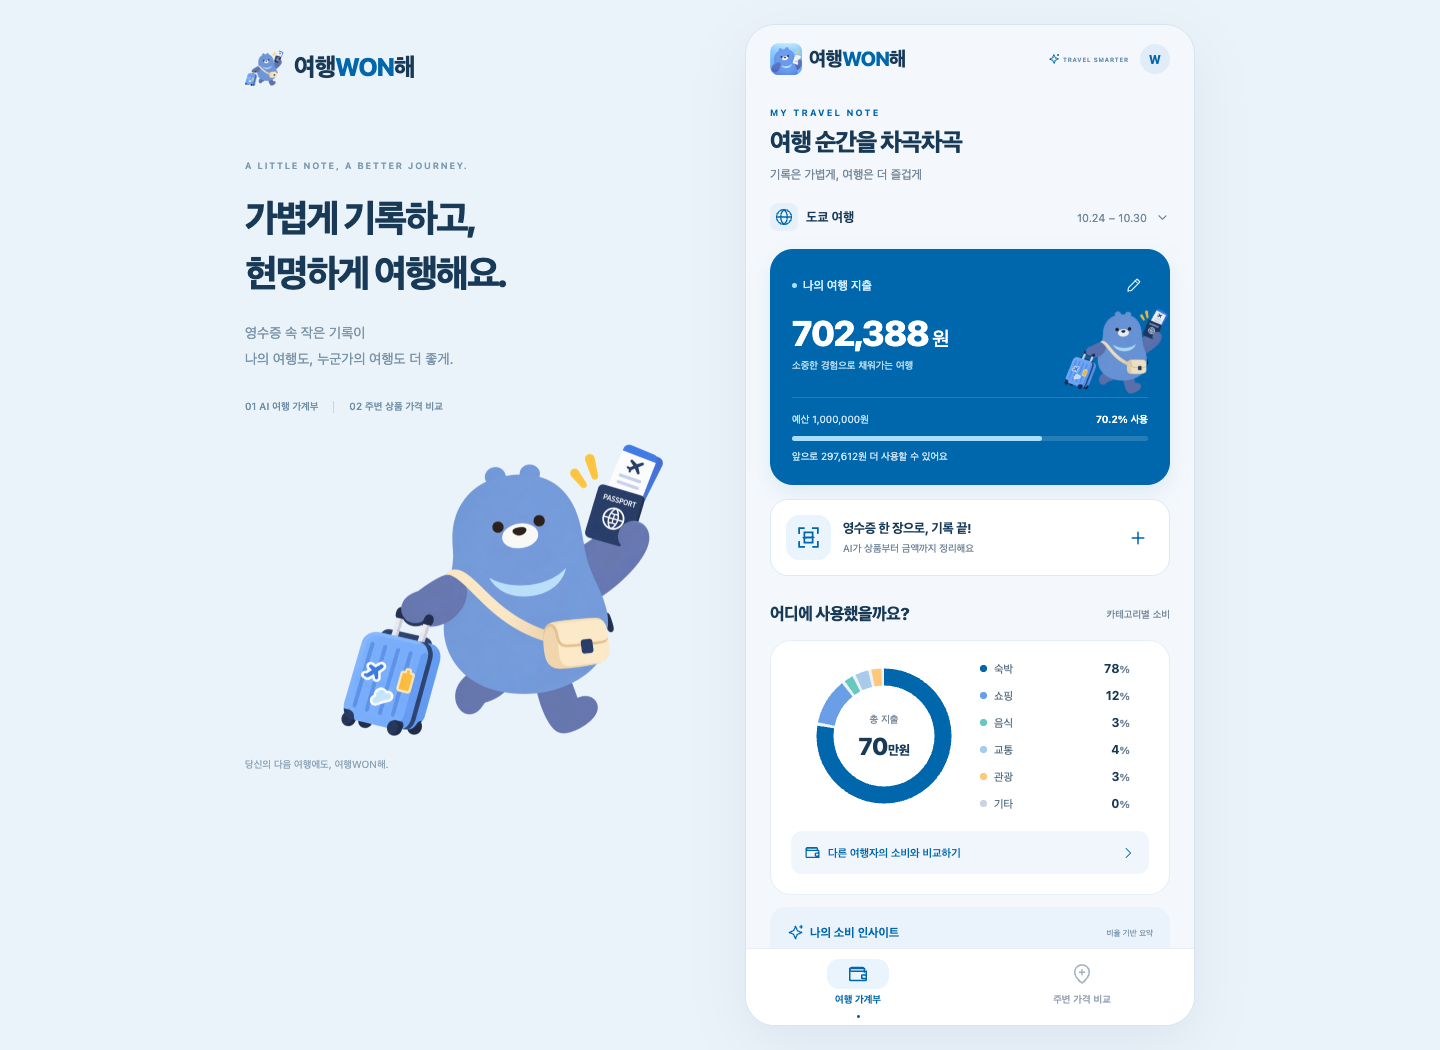
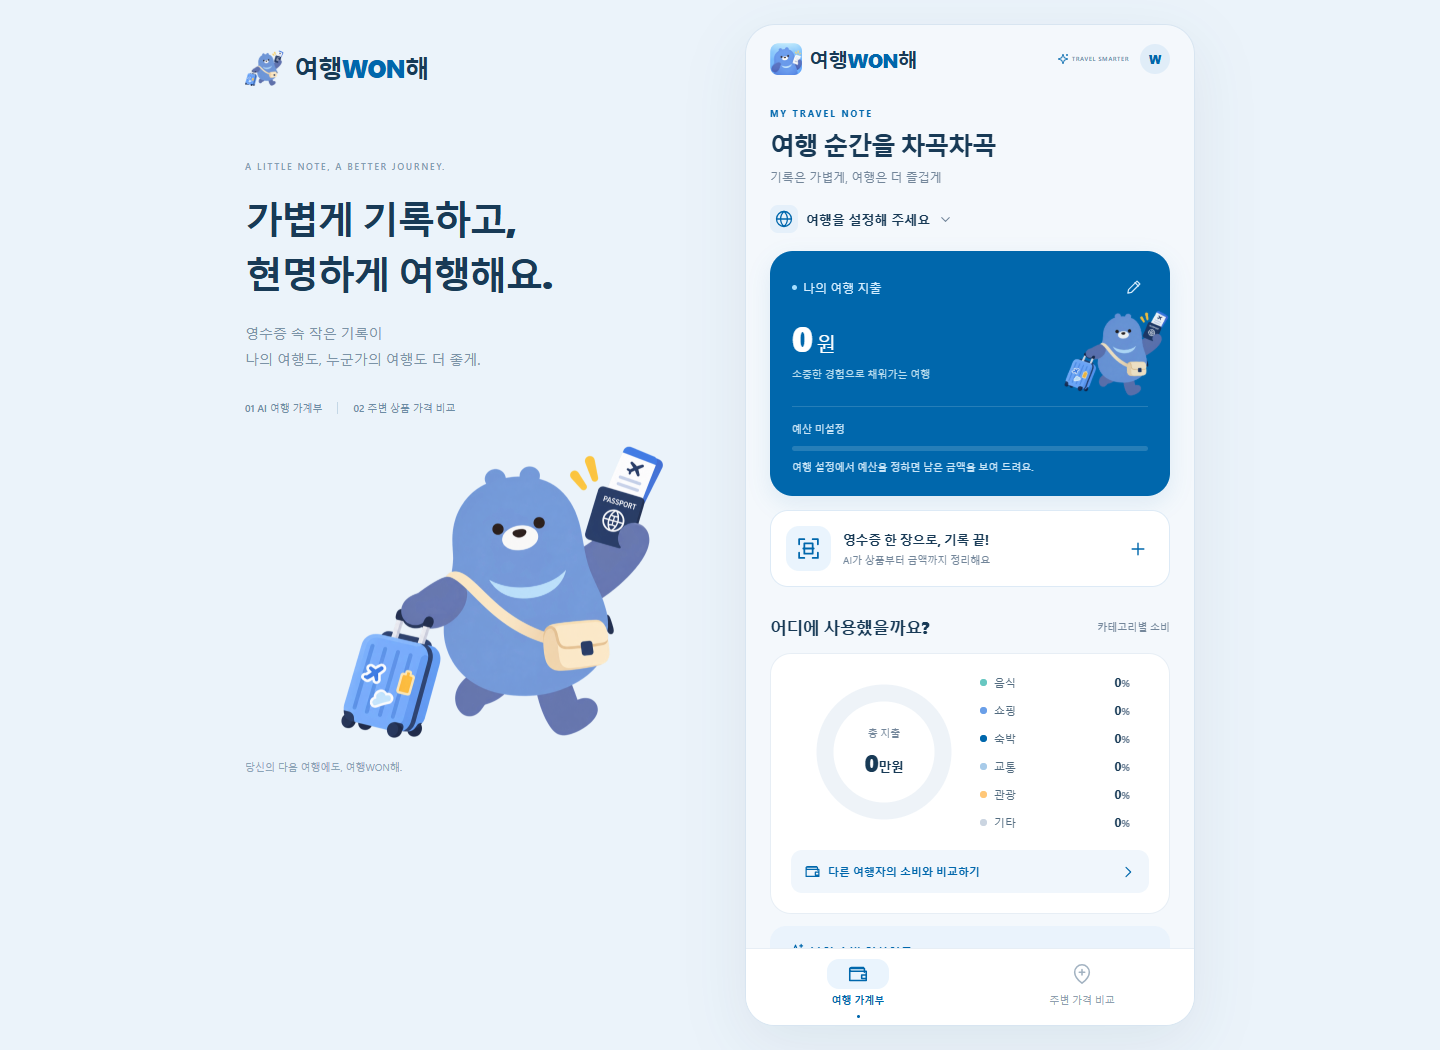
feat: 가계부를 기본 여행·영수증 없이 빈 상태로 시작
- 처음 실행하면 여행과 영수증이 모두 비어 있고, 여행 설정에서 정함
- 예전 기본값(파리·도쿄 기본 여행, 기본 시연 영수증 6건)은 불러올 때 지움
- 여행 설정에 국가 입력 추가, 도시·국가·기간을 정하기 전에는 기기에만 저장
- 브라우저 검증: 빈 시작 상태 반영, 환율 대체 응답 추가, 첫 OCR 대기 시간 늘림

diff --git a/src/screens/Ledger.tsx b/src/screens/Ledger.tsx
@@ -16,6 +16,7 @@ import {
   money,
   toWon,
   storeLabel,
+  tripReady,
 } from "../domain.mjs";
 import { colors, Icon, Chip, Empty } from "../components/ui";
 import type { Receipt, TravelState } from "../types";
@@ -61,11 +62,17 @@ export function Ledger({
         <View style={s.tripIcon}>
           <Icon name="globe" size={18} color={colors.primary} />
         </View>
-        <Text style={s.tripCity}>{state.trip.city} 여행</Text>
-        <Text style={s.tripDate}>
-          {state.trip.start.slice(5).replace("-", ".")} –{" "}
-          {state.trip.end.slice(5).replace("-", ".")}
+        <Text style={s.tripCity}>
+          {tripReady(state.trip)
+            ? `${state.trip.city} 여행`
+            : "여행을 설정해 주세요"}
         </Text>
+        {tripReady(state.trip) && (
+          <Text style={s.tripDate}>
+            {state.trip.start.slice(5).replace("-", ".")} –{" "}
+            {state.trip.end.slice(5).replace("-", ".")}
+          </Text>
+        )}
         <Icon name="down" size={15} color={colors.muted} />
       </Pressable>
       <View style={s.hero}>
@@ -95,9 +102,13 @@ export function Ledger({
         />
         <View style={s.budget}>
           <View style={s.budgetLabels}>
-            <Text style={s.budgetText}>예산 {won(state.trip.budget)}</Text>
+            <Text style={s.budgetText}>
+              {state.trip.budget
+                ? `예산 ${won(state.trip.budget)}`
+                : "예산 미설정"}
+            </Text>
             <Text style={s.budgetPercent}>
-              {summary.percent.toFixed(1)}% 사용
+              {state.trip.budget ? `${summary.percent.toFixed(1)}% 사용` : ""}
             </Text>
           </View>
           <View style={s.progressTrack}>
@@ -107,15 +118,19 @@ export function Ledger({
                 {
                   width: `${Math.min(100, summary.percent)}%`,
                   backgroundColor:
-                    summary.remaining < 0 ? "#FFBF99" : "#A8DEFF",
+                    state.trip.budget && summary.remaining < 0
+                      ? "#FFBF99"
+                      : "#A8DEFF",
                 },
               ]}
             />
           </View>
           <Text style={s.remaining}>
-            {summary.remaining < 0
-              ? `예산을 ${won(-summary.remaining)} 초과했어요`
-              : `앞으로 ${won(summary.remaining)} 더 사용할 수 있어요`}
+            {!state.trip.budget
+              ? "여행 설정에서 예산을 정하면 남은 금액을 보여 드려요."
+              : summary.remaining < 0
+                ? `예산을 ${won(-summary.remaining)} 초과했어요`
+                : `앞으로 ${won(summary.remaining)} 더 사용할 수 있어요`}
           </Text>
         </View>
       </View>
@@ -324,7 +339,8 @@ export function Ledger({
       <View style={s.footer}>
         <Icon name="info" size={12} color={colors.muted} />
         <Text style={s.footerText}>
-          시연 기록이 포함돼요. 적용 환율은 직접 수정할 수 있어요.
+          {state.receipts.some((r) => r.demo) ? "시연 기록이 포함돼요. " : ""}
+          적용 환율은 직접 수정할 수 있어요.
         </Text>
       </View>
     </View>

diff --git a/src/components/TripSettings.tsx b/src/components/TripSettings.tsx
@@ -16,12 +16,13 @@ export function TripSettings({
   onClear: () => void;
 }) {
   const [draft, setDraft] = useState(trip),
-    [budget, setBudget] = useState(String(trip.budget)),
+    [budget, setBudget] = useState(trip.budget ? String(trip.budget) : ""),
     [error, setError] = useState(""),
     [confirm, setConfirm] = useState(false);
   function save() {
     try {
       if (!draft.city.trim()) throw new Error("여행 도시를 입력해 주세요.");
+      if (!draft.country.trim()) throw new Error("여행 국가를 입력해 주세요.");
       if (
         !validDate(draft.start) ||
         !validDate(draft.end) ||
@@ -31,6 +32,7 @@ export function TripSettings({
       onSave({
         ...draft,
         city: draft.city.trim(),
+        country: draft.country.trim(),
         budget: parseMoney(budget, "KRW"),
       });
     } catch (e) {
@@ -48,7 +50,15 @@ export function TripSettings({
         label="여행 도시"
         value={draft.city}
         onChangeText={(city) => setDraft({ ...draft, city })}
+        placeholder="예: 도쿄"
         testID="trip-city"
+      />
+      <Field
+        label="여행 국가"
+        value={draft.country}
+        onChangeText={(country) => setDraft({ ...draft, country })}
+        placeholder="예: 일본"
+        testID="trip-country"
       />
       <View style={{ flexDirection: "row", gap: 12 }}>
         <Field
@@ -56,12 +66,14 @@ export function TripSettings({
           value={draft.start}
           onChangeText={(start) => setDraft({ ...draft, start })}
           placeholder="YYYY-MM-DD"
+          testID="trip-start"
         />
         <Field
           label="여행 종료일"
           value={draft.end}
           onChangeText={(end) => setDraft({ ...draft, end })}
           placeholder="YYYY-MM-DD"
+          testID="trip-end"
         />
       </View>
       <Field
@@ -69,11 +81,11 @@ export function TripSettings({
         value={budget}
         onChangeText={setBudget}
         keyboardType="number-pad"
+        placeholder="예: 1000000"
         testID="trip-budget"
       />
       <Text style={s.note}>
-        원화 환산에는 각 영수증에 입력한 환율을 사용해요. 시연 환율 1 EUR =
-        1,600원은 실시간 환율이 아니에요.
+        원화 환산에는 각 영수증에 입력한 적용 환율을 사용해요.
       </Text>
       {error ? (
         <Text accessibilityRole="alert" style={s.error}>

diff --git a/App.tsx b/App.tsx
@@ -24,9 +24,11 @@ import { ReceiptEditor } from "./src/components/ReceiptEditor";
 import { TripSettings } from "./src/components/TripSettings";
 import { colors, Icon } from "./src/components/ui";
 import {
-  createDemo,
+  createInitialState,
   fingerprint,
+  tripReady,
   validateReceipt,
+  withoutDefaults,
 } from "./src/domain.mjs";
 import { loadLedger, syncLedger } from "./src/api";
 import type { Receipt, TravelState } from "./src/types";
@@ -34,7 +36,7 @@ import type { Receipt, TravelState } from "./src/types";
 const STORAGE_KEY = "travel-wonhae-mobile-v1",
   TOKEN_KEY = "travel-wonhae-device-token";
 function TravelApp() {
-  const [state, setState] = useState<TravelState>(() => createDemo()),
+  const [state, setState] = useState<TravelState>(() => createInitialState()),
     [loaded, setLoaded] = useState(false),
     [storageFailed, setStorageFailed] = useState(false);
   const [tab, setTab] = useState("ledger"),
@@ -81,7 +83,8 @@ function TravelApp() {
           )
             throw new Error("저장 형식 오류");
           parsed.receipts.forEach(validateReceipt);
-          if (active) setState(parsed);
+          // 예전 버전이 넣어 둔 기본 시연 영수증과 기본 여행(파리·도쿄)은 불러오지 않습니다.
+          if (active) setState(withoutDefaults(parsed));
         }
       } catch {
         if (active) {
@@ -111,6 +114,11 @@ function TravelApp() {
   }, [state, loaded, storageFailed]);
   async function refresh() {
     if (!token.current || storageFailed) return;
+    // 여행(도시·국가·기간)을 정하기 전에는 서버가 받지 않으므로 기기에만 저장합니다.
+    if (!tripReady(state.trip)) {
+      setSyncMessage("여행을 설정하면 가계부를 서버에도 저장해요.");
+      return;
+    }
     // 가계부 전체를 순서대로 서버 DB에 저장해 삭제·수정과 재시도를 함께 처리합니다.
     // 저장이 끝나면 PAGE 2가 서버에서 다시 조회해 방금 저장한 영수증도 보여 줍니다.
     const current = state;

diff --git a/src/components/ReceiptEditor.tsx b/src/components/ReceiptEditor.tsx
@@ -451,6 +451,7 @@ export function ReceiptEditor({
               setRate(fallbackRate(c));
               void loadRate(c);
             }}
+            testID={`currency-${c}`}
           />
         ))}
       </View>

diff --git a/README.md b/README.md
@@ -20,7 +20,7 @@
 - **소비 시각화**: 카테고리(숙박·쇼핑·음식·교통·관광·기타)별 도넛 차트와 비율
 - **평균 비교**: 카테고리별 나의 비율, 시연 평균 비율, 그 차이(%p)
 - **소비 인사이트**: 가장 많이 쓴 카테고리와 평균과의 차이를 설명하는 비율 기반 요약
-- **여행 예산**: 도시·기간·예산·적용 환율 설정, 예산 사용률·남은 예산·초과 표시
+- **여행 예산**: 도시·국가·기간·예산 설정, 예산 사용률·남은 예산·초과 표시
 - **나의 영수증**: 최근 구매일 순 목록, 카테고리 필터, 원화·외화 금액 표시, 상세 보기·수정·삭제, 같은 영수증 중복 등록 차단
 
 ### 2. 주변 가격 비교
@@ -50,10 +50,10 @@ AI는 영수증 해석만 맡고, 금액 계산과 검증은 프로그램이 수
 
 - 가계부와 여행 설정은 기기의 AsyncStorage에 저장합니다. 웹에서는 해당 주소의 브라우저 localStorage를 씁니다.
 - 서버는 기기·여행·영수증·품목 4개 테이블에 저장합니다([docs/db-design.md](docs/db-design.md)). 기본은 H2 파일 DB(`data/prices.mv.db`)이고, `npm run server:mysql`로 실행하면 MySQL(`travel_won`)을 씁니다. 기기 토큰은 SHA-256 해시로만 보관합니다. PAGE 2에는 공유하고 매장 위치가 있는 영수증만 나옵니다.
-- 앱은 가계부를 기기(AsyncStorage)에 먼저 저장하고, 바뀔 때마다 서버에 통째로 저장합니다(`PUT /ledger`). 시연 영수증은 서버에 저장하지 않습니다. 서버에 연결되지 않으면 기기에만 저장하고 다음 연결 때 반영합니다.
+- 앱은 가계부를 기기(AsyncStorage)에 먼저 저장하고, 바뀔 때마다 서버에 통째로 저장합니다(`PUT /ledger`). 시연 영수증은 서버에 저장하지 않습니다. 여행 도시·국가·기간을 정하기 전에는 서버가 여행을 받지 않으므로 기기에만 저장합니다. 서버에 연결되지 않으면 기기에만 저장하고 다음 연결 때 반영합니다.
 - 금액은 최소 통화 단위 정수로 저장합니다(EUR·USD·THB는 센트, JPY·KRW는 엔·원). 적용 환율은 소수 4자리까지 받고(`travel_won` 설계는 `DECIMAL(12,4)`), 원화 환산은 금액 × 환율을 끝까지 계산한 뒤 원 단위로 반올림합니다(1000엔 × 8.3983 = 8,398원).
 - 불러온 환율은 영업일마다 고시되는 한국수출입은행 매매기준율로, 참고값입니다. 실시간 환율이나 실제 카드 결제 환율과 다를 수 있습니다. 주말·공휴일·고시 전에는 가장 최근 고시일(최대 7일 전) 값을 씁니다.
-- **시연 데이터**: 처음 실행할 때 보이는 도쿄 여행 영수증 6건(JPY)과 평균 소비 비율은 가상입니다. PAGE 2의 신주쿠 주변 매장·가격은 `travel_won`에 넣은 가데이터([sample-data/](sample-data/README.md))입니다. 시연 영수증은 여행 설정에서 지울 수 있습니다.
+- **시연 데이터**: 처음 실행하면 기본 여행과 기본 영수증 없이 빈 가계부로 시작하고, 여행 설정에서 도시·국가·기간·예산을 정합니다(예전 버전이 넣어 둔 파리·도쿄 기본 여행과 기본 시연 영수증도 불러올 때 지웁니다). 평균 소비 비율은 가상입니다. 영수증 화면의 "시연 영수증으로 체험하기"로 만든 영수증은 시연으로 표시되며 여행 설정에서 지울 수 있습니다. PAGE 2의 신주쿠 주변 매장·가격은 `travel_won`에 넣은 가데이터([sample-data/](sample-data/README.md))입니다.
 - AI 상품 추천과 거리순 정렬은 아직 구현하지 않았습니다. 상품명 검색은 실제 데이터가 쌓인 뒤 다시 확인할 예정입니다.
 - 서버는 로컬 해커톤용 단일 프로세스입니다. 공개 운영에는 사용자 인증, HTTPS, 운영 DB, 접근 제어·비용 한도, 데이터 보관 정책이 필요합니다.
 

diff --git a/SPEC.md b/SPEC.md
@@ -43,7 +43,7 @@
 
 지도는 Mapbox 타일(`EXPO_PUBLIC_MAPBOX_TOKEN`의 공개 토큰, 없으면 OpenStreetMap 타일)과 Web Mercator 좌표 변환을 사용합니다. 반경은 3km, 거리는 좌표 간 직선거리이며 도보 시간은 추정으로 표시합니다. 같은 매장명·주소·상품·통화의 최신 구매일 기록을 비교합니다. GPS 오차는 동일 매장의 별도 지점으로 만들지 않습니다.
 
-비교 평균과 초기 영수증·예시 매장은 시연 데이터임을 표시합니다. 소비 요약은 카테고리 비율 기반 규칙입니다. 불러온 환율은 영업일마다 고시되는 참고값이며 화면에 출처와 기준일을 표시합니다. 실시간 환율·실제 카드 결제 환율, 현재 판매가격·재고, 실제 여행자 평균은 보장하지 않습니다.
+가계부는 기본 여행과 기본 영수증 없이 빈 상태로 시작하고, 사용자가 여행 설정에서 도시·국가·기간·예산을 정합니다. 여행을 정하기 전에는 기기에만 저장합니다. 비교 평균과 체험용 시연 영수증·예시 매장은 시연 데이터임을 표시합니다. 소비 요약은 카테고리 비율 기반 규칙입니다. 불러온 환율은 영업일마다 고시되는 참고값이며 화면에 출처와 기준일을 표시합니다. 실시간 환율·실제 카드 결제 환율, 현재 판매가격·재고, 실제 여행자 평균은 보장하지 않습니다.
 
 ## 3. 테스트 목록
 
